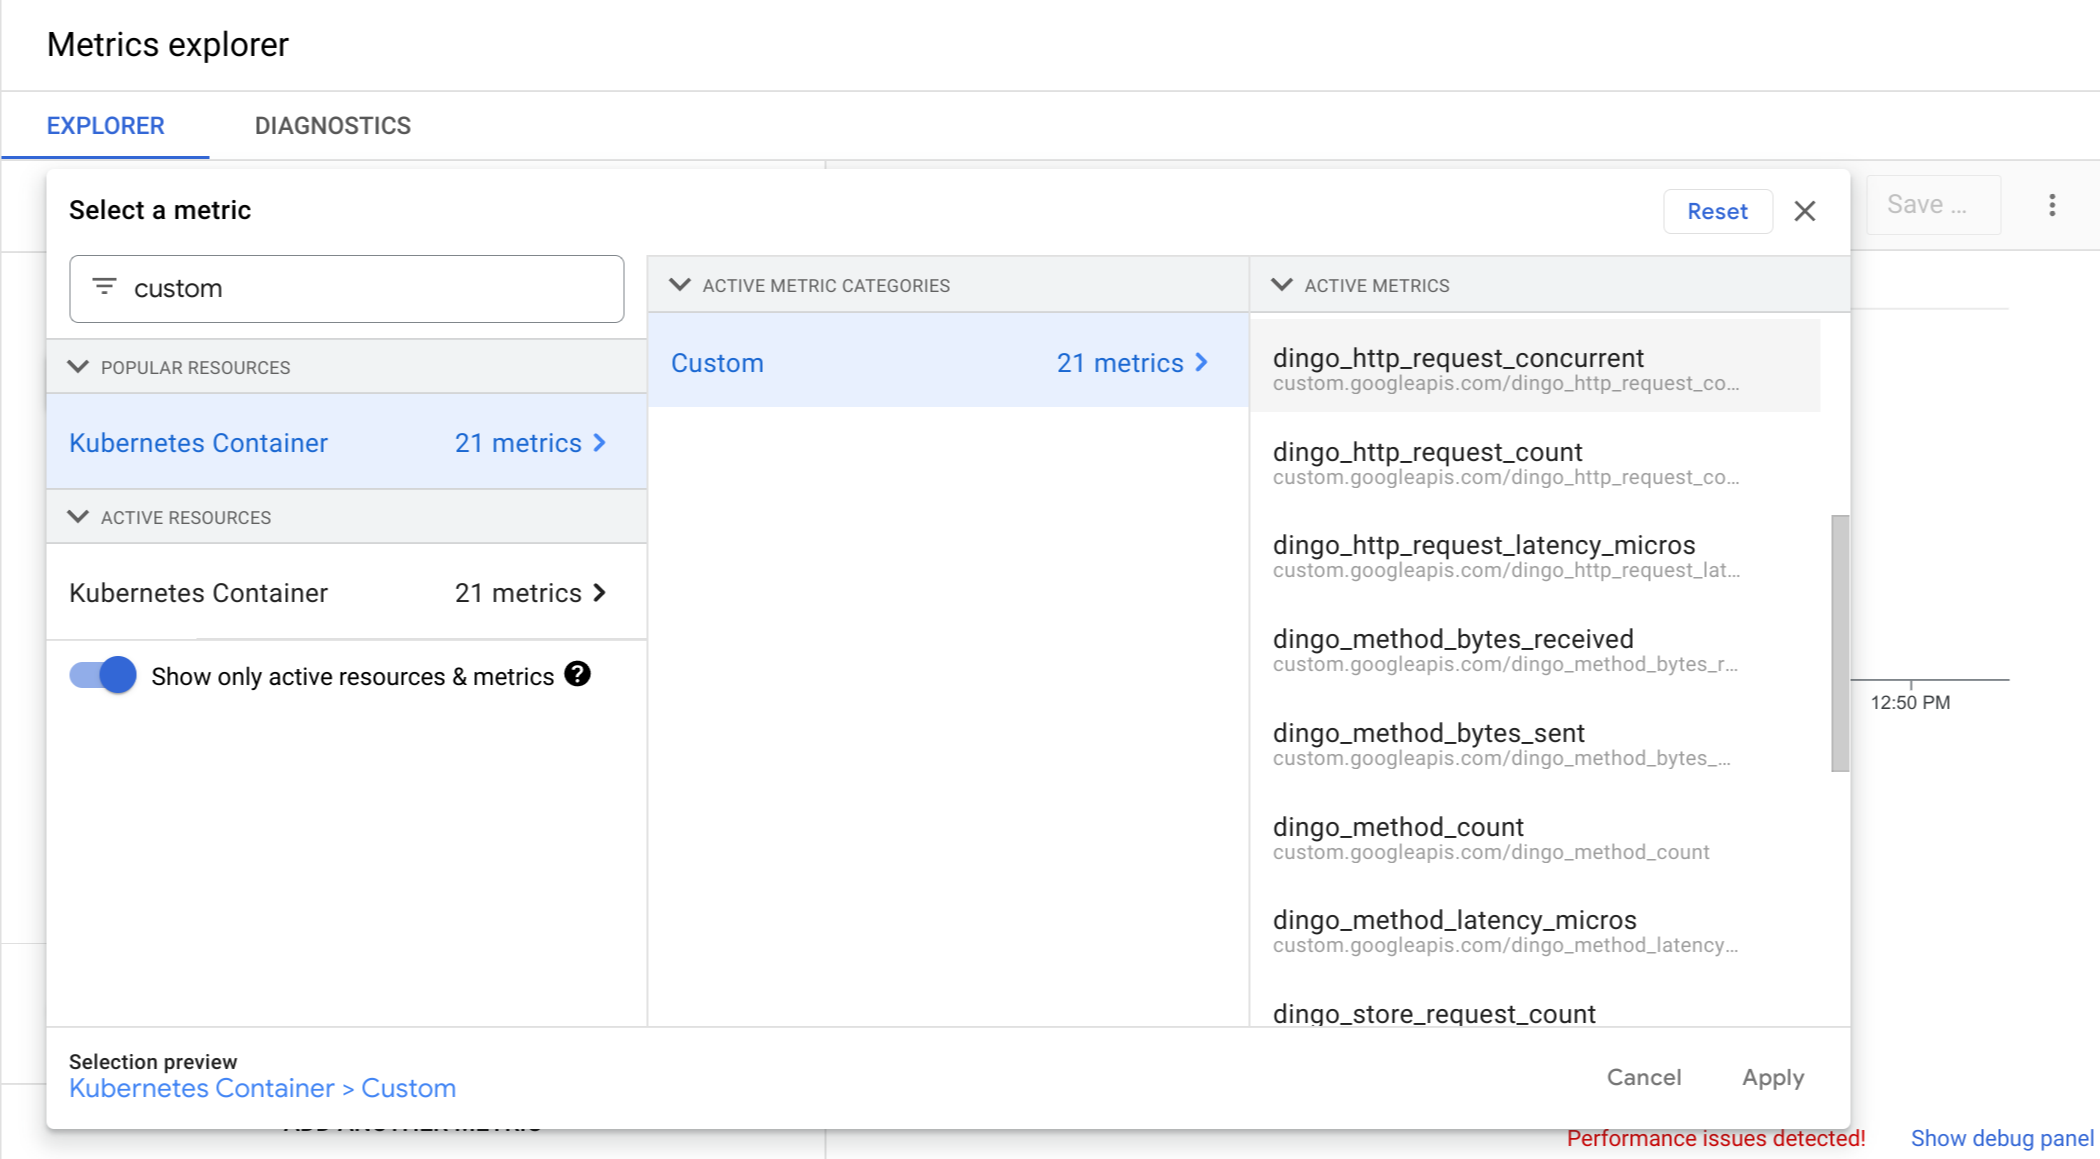
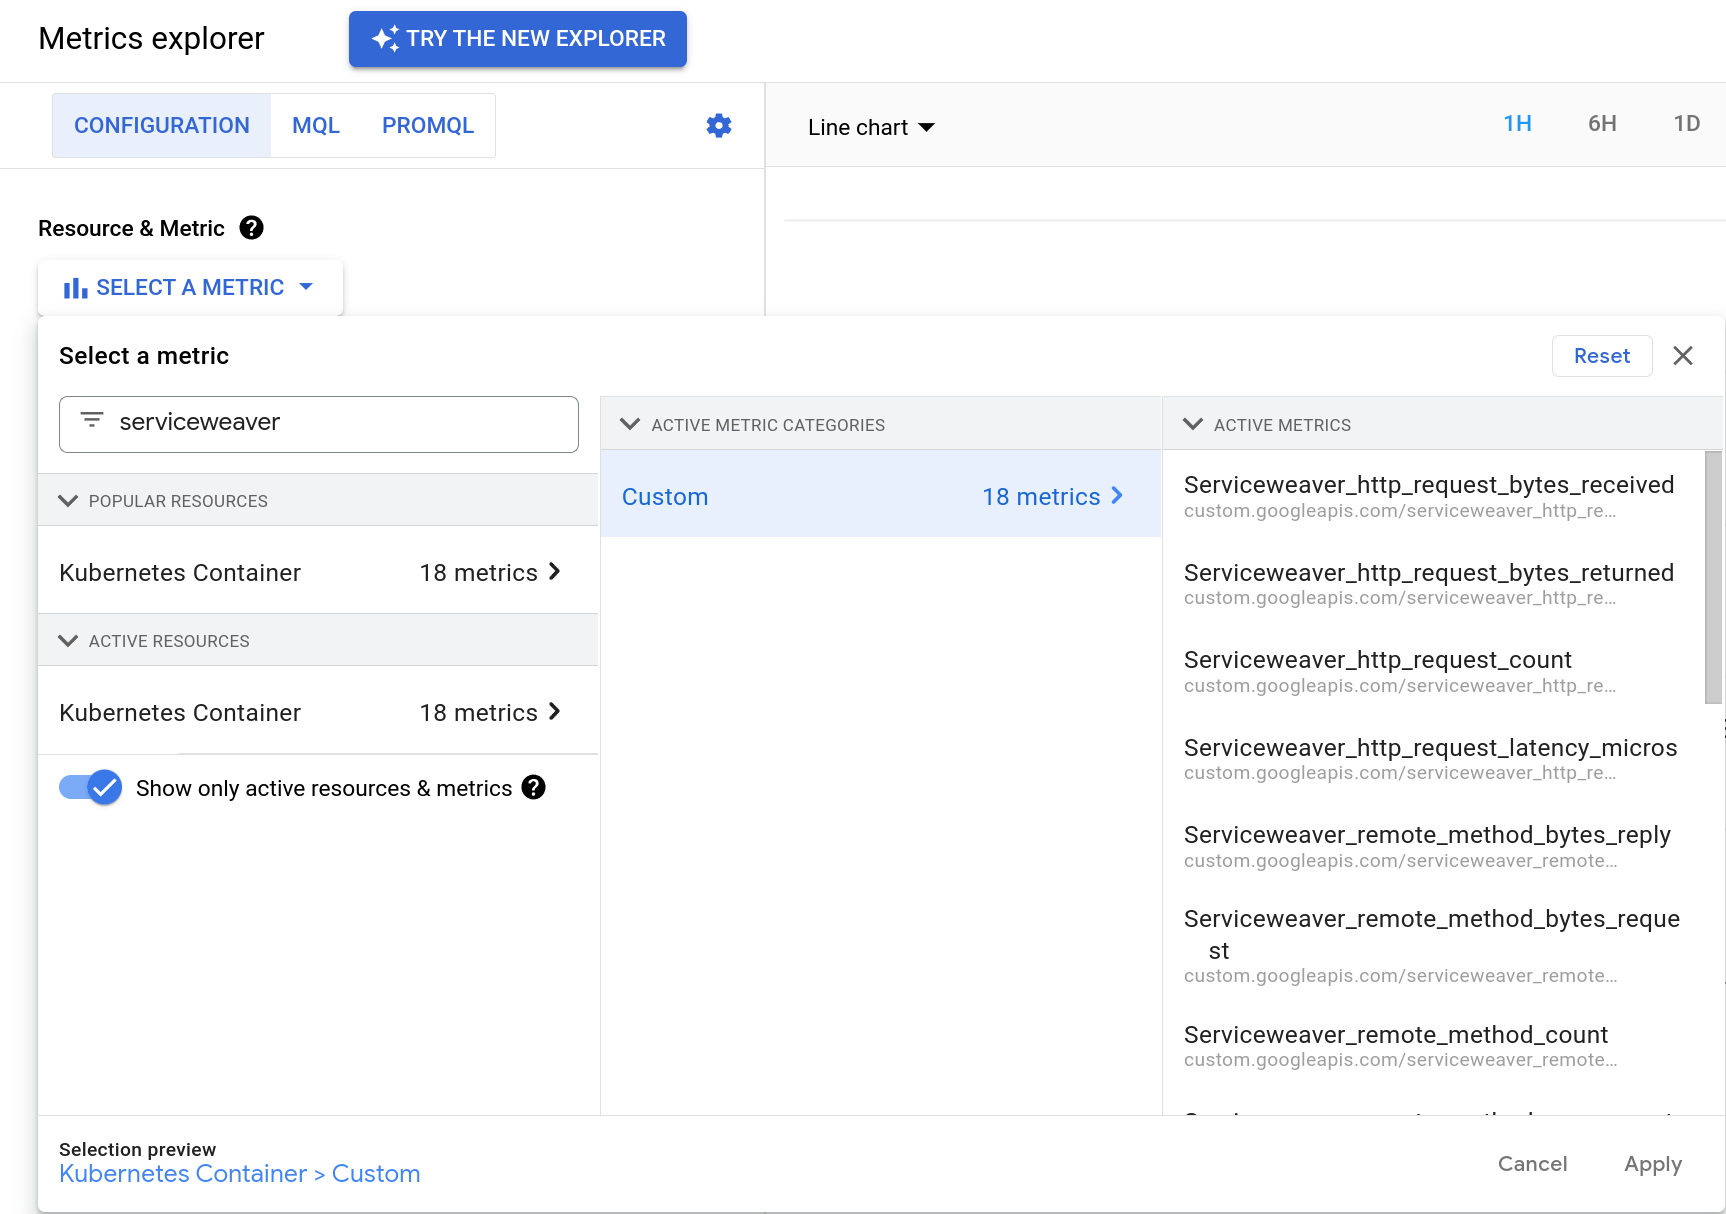
Fix stale images and other minor fixes.

diff --git a/website/docs.md b/website/docs.md
@@ -1701,7 +1701,7 @@ gcloud init
 The above command will prompt you to select the Google account and cloud project
 you wish to use. If you don't have a cloud project, the command will prompt you
 to create one. Make sure to select a unique project name or the command will
-fail. If that happens, follow [these instructions](gke_create_project) to create
+fail. If that happens, follow [these instructions][gke_create_project] to create
 a new project, or simply run:
 
 ```console
@@ -1902,15 +1902,7 @@ on [Google Cloud's Logs Explorer][logs_explorer].
 
 ![A screenshot of Service Weaver logs in the Logs Explorer](assets/images/logs_explorer.png)
 
-<div hidden class="todo">
-TODO(mwhittaker): Update screenshot.
-</div>
-
 ## Metrics
-
-<div hidden class="todo">
-TODO(mwhittaker): Update these screenshots.
-</div>
 
 `weaver gke` exports metrics to the
 [Google Cloud Monitoring console][cloud_metrics]. You can view and graph these
@@ -1920,7 +1912,7 @@ Metrics Explorer, click `SELECT A METRIC`.
 ![A screenshot of the Metrics Explorer](assets/images/cloud_metrics_1.png)
 
 All Service Weaver metrics are exported under the `custom.googleapis.com` domain. Query
-for `custom` to view these metrics and select the metric you're interested in.
+for `serviceweaver` to view these metrics and select the metric you're interested in.
 
 ![A screenshot of selecting a metric in Metrics Explorer](assets/images/cloud_metrics_2.png)
 
@@ -2095,11 +2087,6 @@ resource allocation. Simultaneously, as the new version receives more traffic,
 its load increases, and the autoscaler begins to increase its resource
 allocation. These two transitions cancel out causing the rollout to use a
 roughly constant number of resources.
-
-<div hidden class="todo">
-TODO(mwhittaker): Do we want to claim the rollouts use roughly constant
-resources? Have we tested this?
-</div>
 
 <div hidden class="todo">
 TODO(mwhittaker): What if the new version doesn't have the same regions as
